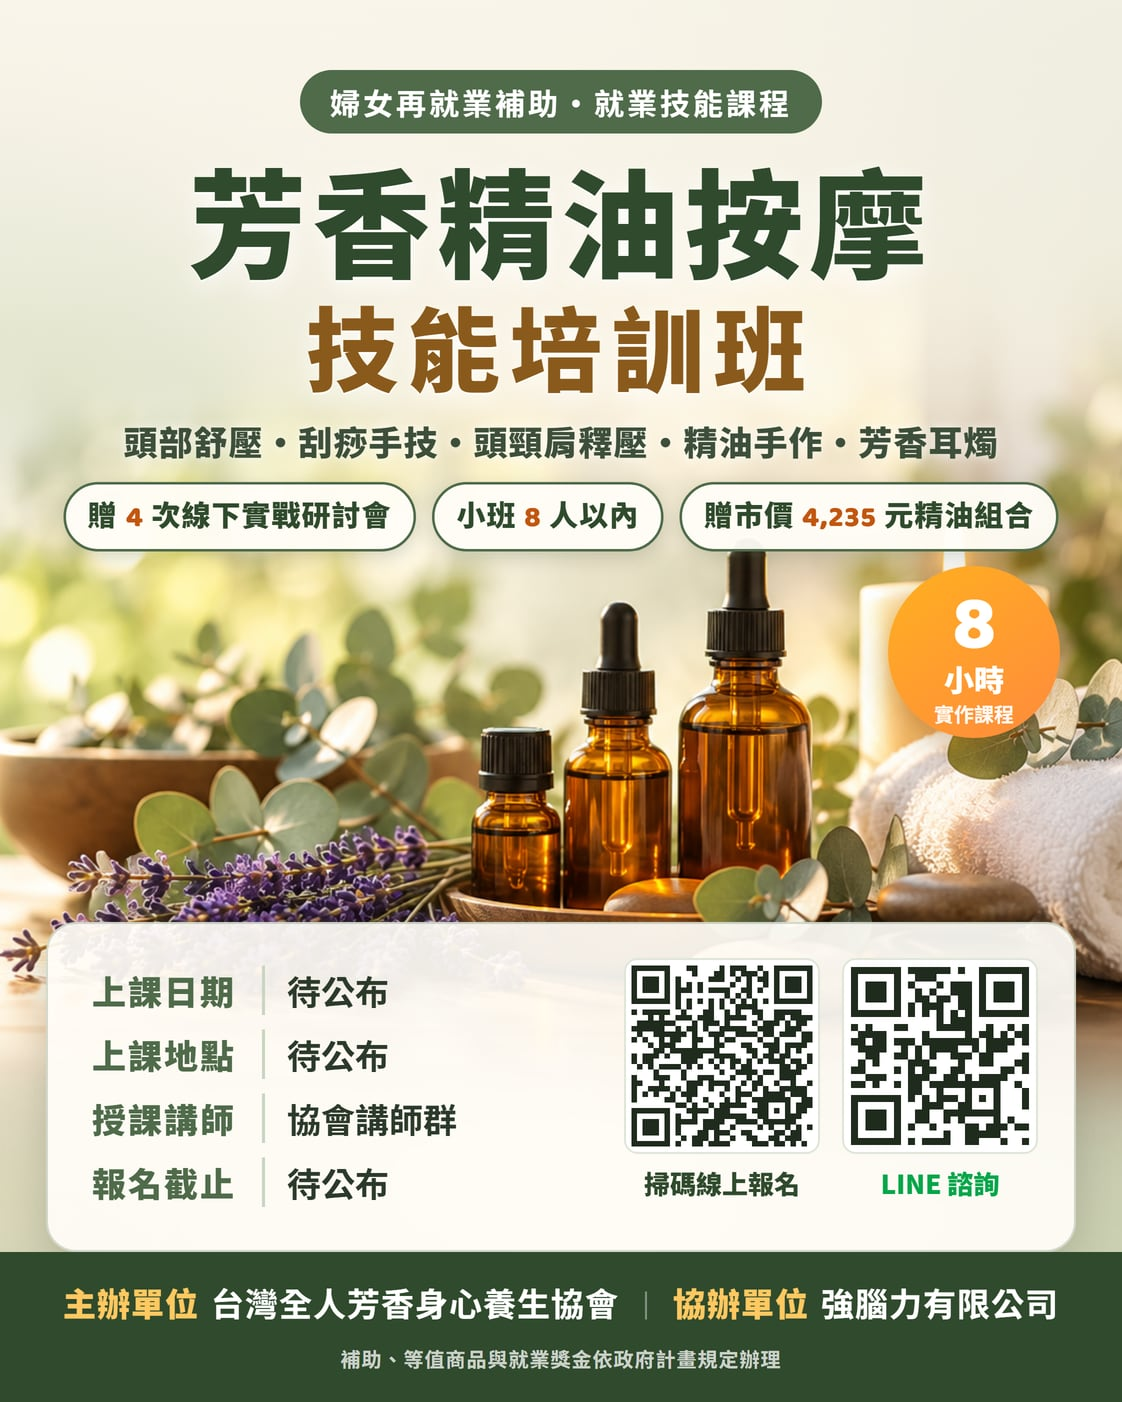
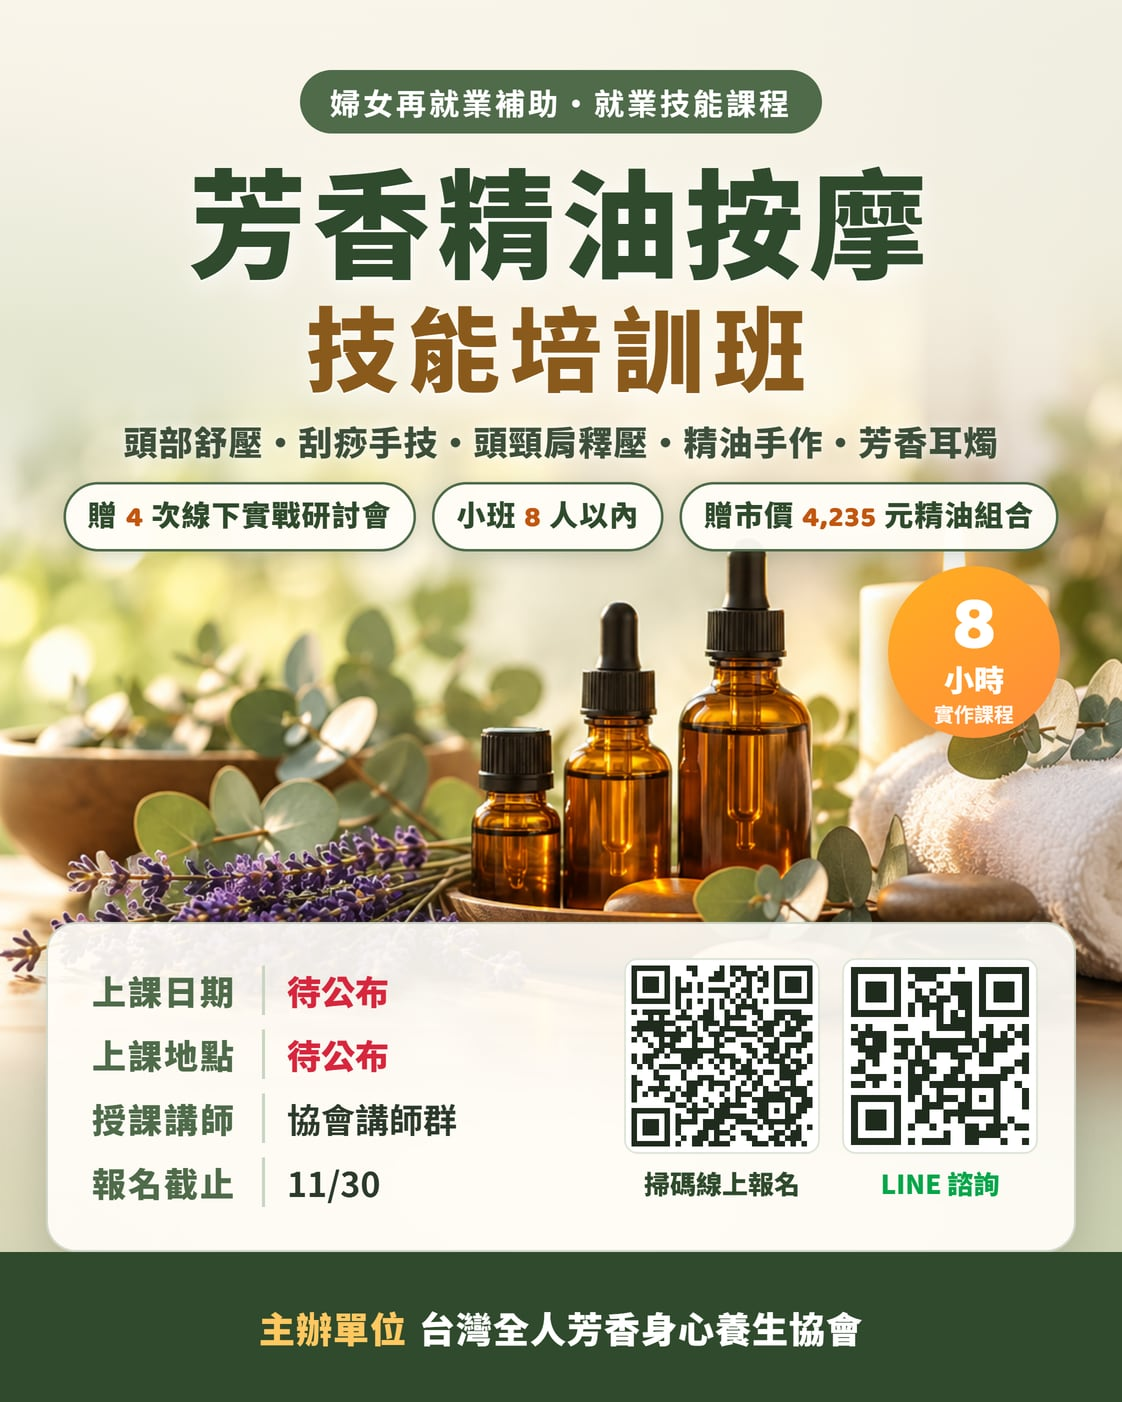
芳香海報與 og 重出（截止 11/30、刪協辦與補助小字、主辦粗體）＋課程頁刪協辦與補助四行（T624）
- img-funv-aroma-poster.jpg、og-funv-aroma.jpg 檔名不變，由 G:/_tmp/t624/poster.cjs（t411 版改）重出
- course-pro-aroma：description／og／JSON-LD 刪協辦、拿掉 contributor、海報 alt、課程資訊刪協辦與補助三列＋小字、截止 11/30、待公布紅粗、主辦粗體
- 兩頁 og:image／twitter:image 加 ?v=2；報名頁海報 alt 補報名截止

Changed region(s): [[0.0624, 0.9201, 0.9358, 0.9815], [0.2496, 0.6748, 0.3431, 0.7668], [0.2496, 0.8281, 0.3431, 0.8588]]

diff --git a/course-pro-aroma.html b/course-pro-aroma.html
@@ -2,10 +2,10 @@
 <html lang="zh-Hant">
 <head>
 <!-- TODO(T411) 待補資料（確定後改這些地方，海報與 og 改 G:/_tmp/t411/poster.cjs 的 T 物件重跑）：
-  1. 上課日期、上課時段　2. 上課地點　3. 報名截止日（T415 已補：大綱四項、班制、贈品、講師＝協會講師群）
+  1. 上課日期、上課時段　2. 上課地點（T415 已補：大綱四項、班制、贈品、講師＝協會講師群；T624 已補報名截止 11/30）
   6. 課程 LINE 群組（有的話補在送出成功畫面與課程頁）
   7. 課程費用（目前照婦女再就業既有寫法：政府補助 20,000 元學費）
-  補完後一併拿掉頁面上「日期、地點、報名截止：待公布」那行，並更新 JSON-LD 的 startDate／location。 -->
+  補完後一併拿掉頁面上「日期、地點：待公布」那段，並更新 JSON-LD 的 startDate／location。 -->
 <script>(function(){try{var u=navigator.userAgent||'';if(/\bLine\//i.test(u)&&!/[?&]openExternalBrowser=1/.test(location.search)){var s=location.search?location.search+'&openExternalBrowser=1':'?openExternalBrowser=1';location.replace(location.pathname+s+location.hash);}}catch(e){}})();</script>
 <!-- Google tag (gtag.js) -->
 <script async src="https://www.googletagmanager.com/gtag/js?id=G-22EQNGV8C4"></script>
@@ -18,7 +18,7 @@
 <meta charset="UTF-8">
 <meta name="viewport" content="width=device-width, initial-scale=1.0">
 <title>芳香精油按摩 技能培訓班・頭部舒壓、刮痧手技、精油手作｜強腦力 SkyBraining</title>
-<meta name="description" content="芳香精油按摩技能培訓班：課程共 8 小時，教芳香頭部舒壓與精油刮痧手技、頭頸肩深度釋壓與淋巴按摩、精油手作、芳香耳燭；另贈 4 次線下實戰研討會與市價 4,235 元精油組合。每週一堂，分假日班與平日班，小班制 8 人以內。台灣全人芳香身心養生協會主辦、強腦力有限公司協辦，婦女再就業補助線上報名。">
+<meta name="description" content="芳香精油按摩技能培訓班：課程共 8 小時，教芳香頭部舒壓與精油刮痧手技、頭頸肩深度釋壓與淋巴按摩、精油手作、芳香耳燭；另贈 4 次線下實戰研討會與市價 4,235 元精油組合。每週一堂，分假日班與平日班，小班制 8 人以內。台灣全人芳香身心養生協會主辦，婦女再就業補助線上報名。">
 <link rel="preconnect" href="https://fonts.googleapis.com">
 <link rel="preconnect" href="https://fonts.gstatic.com" crossorigin>
 <link href="https://fonts.googleapis.com/css2?family=Noto+Sans+TC:wght@300;400;500;700;900&family=Baloo+2:wght@500;600;700;800&display=swap" rel="stylesheet">
@@ -179,17 +179,17 @@
 <meta property="og:type" content="website">
 <meta property="og:site_name" content="強腦力 SkyBraining">
 <meta property="og:title" content="芳香精油按摩 技能培訓班・頭部舒壓、刮痧手技、精油手作｜強腦力 SkyBraining">
-<meta property="og:description" content="芳香精油按摩技能培訓班：課程共 8 小時，教芳香頭部舒壓與精油刮痧手技、頭頸肩深度釋壓與淋巴按摩、精油手作、芳香耳燭；另贈 4 次線下實戰研討會與市價 4,235 元精油組合。每週一堂，分假日班與平日班，小班制 8 人以內。台灣全人芳香身心養生協會主辦、強腦力有限公司協辦，婦女再就業補助線上報名。">
+<meta property="og:description" content="芳香精油按摩技能培訓班：課程共 8 小時，教芳香頭部舒壓與精油刮痧手技、頭頸肩深度釋壓與淋巴按摩、精油手作、芳香耳燭；另贈 4 次線下實戰研討會與市價 4,235 元精油組合。每週一堂，分假日班與平日班，小班制 8 人以內。台灣全人芳香身心養生協會主辦，婦女再就業補助線上報名。">
 <meta property="og:url" content="https://skybraining.com/course-pro-aroma.html">
-<meta property="og:image" content="https://skybraining.com/og-funv-aroma.jpg">
+<meta property="og:image" content="https://skybraining.com/og-funv-aroma.jpg?v=2">
 <meta property="og:image:width" content="1200">
 <meta property="og:image:height" content="630">
 <meta property="og:image:alt" content="芳香精油按摩 技能培訓班 課程介紹">
 <meta property="og:locale" content="zh_TW">
 <meta name="twitter:card" content="summary_large_image">
-<meta name="twitter:image" content="https://skybraining.com/og-funv-aroma.jpg">
+<meta name="twitter:image" content="https://skybraining.com/og-funv-aroma.jpg?v=2">
 <script type="application/ld+json">
-{"@context":"https://schema.org","@type":"Course","name":"芳香精油按摩技能培訓班","description":"芳香精油按摩技能培訓班：課程共 8 小時，教芳香頭部舒壓與精油刮痧手技、頭頸肩深度釋壓與淋巴按摩、精油手作、芳香耳燭；另贈 4 次線下實戰研討會與市價 4,235 元精油組合。每週一堂，分假日班與平日班，小班制 8 人以內。台灣全人芳香身心養生協會主辦、強腦力有限公司協辦，婦女再就業補助線上報名。","url":"https://skybraining.com/course-pro-aroma.html","image":"https://skybraining.com/img-funv-aroma-poster.jpg","inLanguage":"zh-Hant","provider":{"@type":"Organization","name":"台灣全人芳香身心養生協會"},"hasCourseInstance":{"@type":"CourseInstance","courseMode":"Onsite","courseWorkload":"PT8H"},"teaches":["芳香頭部舒壓","精油刮痧手技","頭頸肩深度釋壓","淋巴按摩","精油手作","芳香耳燭"],"offers":{"@type":"Offer","price":"20000","priceCurrency":"TWD","category":"Paid","url":"https://skybraining.com/funv-apply-aroma.html"},"contributor":{"@type":"Organization","name":"強腦力有限公司"}}
+{"@context":"https://schema.org","@type":"Course","name":"芳香精油按摩技能培訓班","description":"芳香精油按摩技能培訓班：課程共 8 小時，教芳香頭部舒壓與精油刮痧手技、頭頸肩深度釋壓與淋巴按摩、精油手作、芳香耳燭；另贈 4 次線下實戰研討會與市價 4,235 元精油組合。每週一堂，分假日班與平日班，小班制 8 人以內。台灣全人芳香身心養生協會主辦，婦女再就業補助線上報名。","url":"https://skybraining.com/course-pro-aroma.html","image":"https://skybraining.com/img-funv-aroma-poster.jpg","inLanguage":"zh-Hant","provider":{"@type":"Organization","name":"台灣全人芳香身心養生協會"},"hasCourseInstance":{"@type":"CourseInstance","courseMode":"Onsite","courseWorkload":"PT8H"},"teaches":["芳香頭部舒壓","精油刮痧手技","頭頸肩深度釋壓","淋巴按摩","精油手作","芳香耳燭"],"offers":{"@type":"Offer","price":"20000","priceCurrency":"TWD","category":"Paid","url":"https://skybraining.com/funv-apply-aroma.html"}}
 </script>
 </head>
 <body>
@@ -226,9 +226,9 @@
           <div class="c-price">NT$20,000<small>政府補助學費・依政府計畫規定</small></div>
           <a href="#buy" class="btn-buy bounce">我要報名 →</a>
         </div>
-        <div class="c-microtrust">8 小時・贈 4 次實戰研討會・小班 8 人以內・<b style="color:#a3480f;">日期、地點、報名截止：待公布</b></div>
+        <div class="c-microtrust">8 小時・贈 4 次實戰研討會・小班 8 人以內・<b style="color:#a3480f;">日期、地點：待公布・報名截止：11/30</b></div>
       </div>
-      <figure class="c-poster reveal"><img src="img-funv-aroma-poster.jpg" width="1122" height="1402" fetchpriority="high" decoding="async" alt="芳香精油按摩 技能培訓班 課程海報：課程 8 小時，贈 4 次線下實戰研討會與市價 4,235 元精油組合，小班 8 人以內，台灣全人芳香身心養生協會主辦、強腦力有限公司協辦"></figure>
+      <figure class="c-poster reveal"><img src="img-funv-aroma-poster.jpg" width="1122" height="1402" fetchpriority="high" decoding="async" alt="芳香精油按摩 技能培訓班 課程海報：課程 8 小時，贈 4 次線下實戰研討會與市價 4,235 元精油組合，小班 8 人以內，台灣全人芳香身心養生協會主辦"></figure>
     </div>
   </div>
 </header>
@@ -241,21 +241,16 @@
       <dl>
         <dt>課程名稱</dt><dd>芳香精油按摩 技能培訓班</dd>
         <dt>授課講師</dt><dd>協會講師群</dd>
-        <dt>實戰研討會</dt><dd>另贈送 4 次線下實戰研討會</dd>
-        <dt>上課日期</dt><dd>待公布（每週一堂，分假日班與平日班）</dd>
-        <dt>上課時段</dt><dd>待公布</dd>
-        <dt>上課地點</dt><dd>待公布</dd>
+        <dt>實戰研討會</dt><dd>贈送 4 次線下實戰研討會</dd>
+        <dt>上課日期</dt><dd><b style="color:#d7263d;">待公布</b>（每週一堂，分假日班與平日班）</dd>
+        <dt>上課時段</dt><dd><b style="color:#d7263d;">待公布</b></dd>
+        <dt>上課地點</dt><dd><b style="color:#d7263d;">待公布</b></dd>
         <dt>班級人數</dt><dd>小班制，8 人以內</dd>
         <dt>課程贈品</dt><dd>贈送市價 4,235 元精油組合</dd>
-        <dt>報名截止</dt><dd>待公布</dd>
-        <dt>主辦單位</dt><dd>台灣全人芳香身心養生協會</dd>
-        <dt>協辦單位</dt><dd>強腦力有限公司</dd>
-        <dt>政府補助</dt><dd>20,000 元學費</dd>
-        <dt>等值商品</dt><dd>你領 5,000 元等值商品</dd>
-        <dt>就業獎金</dt><dd>結業再補助 70,000 元就業獎金</dd>
+        <dt>報名截止</dt><dd>11/30</dd>
+        <dt>主辦單位</dt><dd><b>台灣全人芳香身心養生協會</b></dd>
       </dl>
     </div>
-    <p style="max-width:820px;margin:12px auto 0;font-size:13.5px;color:var(--ink-soft);text-align:center;">※補助、等值商品與就業獎金，依政府計畫規定辦理；結業獎金領取條件請洽詢各地就業服務站。</p>
   </div>
 </section>
 

diff --git a/funv-apply-aroma.html b/funv-apply-aroma.html
@@ -25,7 +25,7 @@
 <meta property="og:title" content="台灣全人芳香身心養生協會｜芳香精油按摩技能培訓班 報名表">
 <meta property="og:description" content="離開公司職場滿 180 天、目前沒有公司勞保的女性可以申請。五個步驟填完，專人打電話跟你確認。">
 <meta property="og:url" content="https://skybraining.com/funv-apply-aroma.html">
-<meta property="og:image" content="https://skybraining.com/og-funv-aroma.jpg">
+<meta property="og:image" content="https://skybraining.com/og-funv-aroma.jpg?v=2">
 <meta property="og:image:width" content="1200">
 <meta property="og:image:height" content="630">
 <meta property="og:image:alt" content="芳香精油按摩 技能培訓班 婦女再就業補助報名">
@@ -33,7 +33,7 @@
 <meta name="twitter:card" content="summary_large_image">
 <meta name="twitter:title" content="台灣全人芳香身心養生協會｜芳香精油按摩技能培訓班 報名表">
 <meta name="twitter:description" content="離開公司職場滿 180 天、目前沒有公司勞保的女性可以申請。五個步驟填完，專人打電話跟你確認。">
-<meta name="twitter:image" content="https://skybraining.com/og-funv-aroma.jpg">
+<meta name="twitter:image" content="https://skybraining.com/og-funv-aroma.jpg?v=2">
 <link rel="preconnect" href="https://fonts.googleapis.com">
 <link rel="preconnect" href="https://fonts.gstatic.com" crossorigin>
 <link href="https://fonts.googleapis.com/css2?family=Noto+Sans+TC:wght@300;400;500;700;900&family=Baloo+2:wght@500;600;700;800&display=swap" rel="stylesheet">
@@ -189,7 +189,7 @@ fieldset.f legend{padding:0;}
   <!-- 第 1 步：資格與準備 -->
   <section class="step on" id="step1" data-title="資格與準備">
     <figure class="poster">
-      <img src="img-funv-aroma-poster.jpg" alt="芳香精油按摩 技能培訓班 課程海報：課程 8 小時，贈 4 次線下實戰研討會與市價 4,235 元精油組合，小班 8 人以內，台灣全人芳香身心養生協會主辦，日期地點待公布" width="1122" height="1402" loading="eager" decoding="async">
+      <img src="img-funv-aroma-poster.jpg" alt="芳香精油按摩 技能培訓班 課程海報：課程 8 小時，贈 4 次線下實戰研討會與市價 4,235 元精油組合，小班 8 人以內，台灣全人芳香身心養生協會主辦，日期地點待公布，報名截止 11/30" width="1122" height="1402" loading="eager" decoding="async">
     </figure>
     <p class="tbd" role="note">日期、地點：待公布　報名截止：11/30</p>
 
